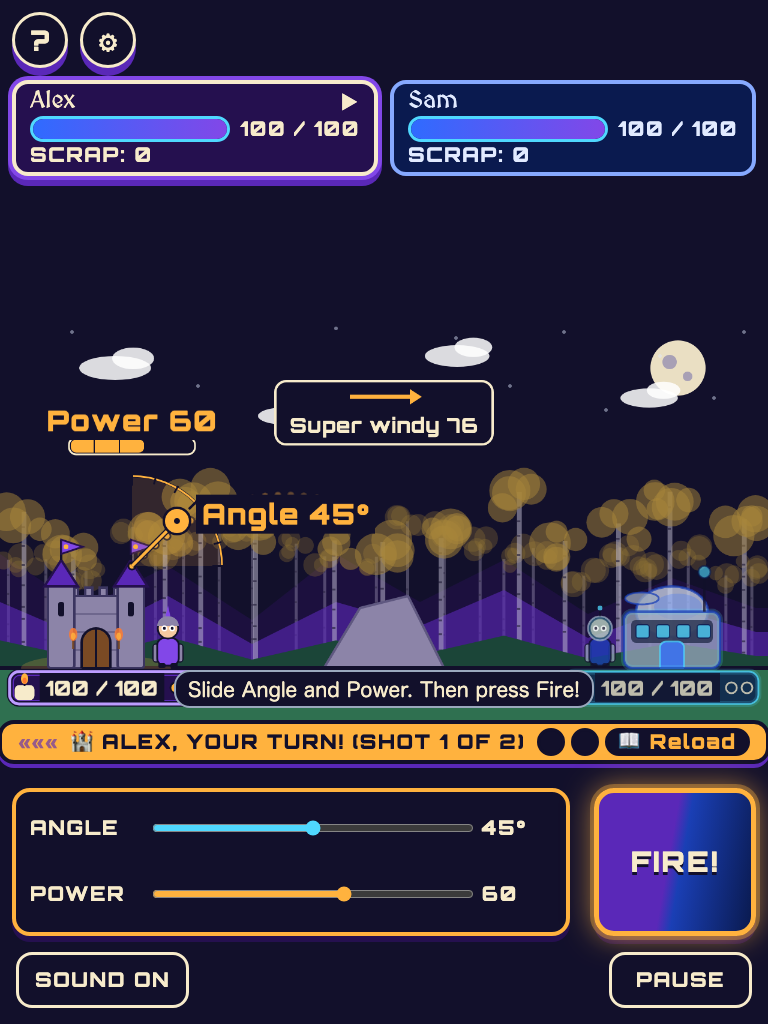
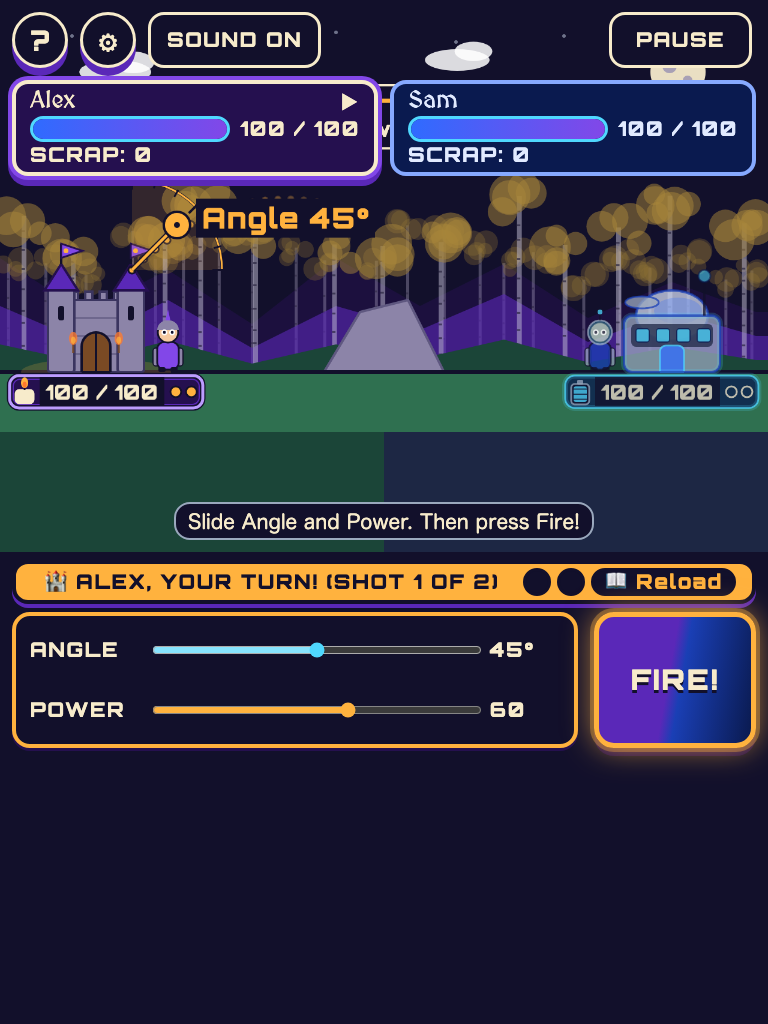
Move the HUD control bar into its own band below the battlefield

diff --git a/src/styles/ui.css b/src/styles/ui.css
@@ -589,6 +589,10 @@ body {
 }
 
 /* ---------- HUD ---------- */
+/* Pause sits top right, just under the team card row (cards end 108px down). */
+:root {
+  --tc-pause-top: 120px;
+}
 .tc-hud {
   position: absolute;
   inset: 0;
@@ -619,7 +623,8 @@ body {
   align-items: stretch;
   justify-content: space-between;
   padding: 12px;
-  padding-left: var(--tc-chrome-clear);
+  /* Wide screens: the cards start to the right of the Sound button, which sits under the ? and gear. */
+  padding-left: calc(var(--tc-tap) * 3 + 40px);
 }
 /* Two shot pips, then a third "Reload" pip: a question comes after shot 2. */
 .tc-pips {
@@ -672,11 +677,12 @@ body {
   height: 100%;
   background: var(--tc-wood);
 }
-/* Sound sits low and left, Pause low and right: one bar of helpers under the picture. */
+/* Sound sits top left, under the ? and gear row. Pause sits top right, under the team card.
+   The band under the picture holds only the controls. */
 .tc-hud-corner {
   position: absolute;
-  left: var(--tc-s-4);
-  bottom: var(--tc-s-4);
+  left: var(--tc-s-3);
+  top: var(--tc-chrome-row);
   display: flex;
   gap: 8px;
 }
@@ -773,32 +779,40 @@ body {
   background: var(--tc-bar-fill);
   transition: width 300ms ease;
 }
-/* The aim controls sit between the two bases (they fill 0 to 20% and 80% to 100% of the width),
-   so a child can see the base they aim from. */
+/* The control bar fills its own band under the picture (the canvas is taller than the
+   battlefield, see BATTLE_BAND). It sits at the bottom of the screen, full width, so the
+   fighters on the ground are never covered. Row 1 is the turn strip. Row 2 is the fighter
+   selector, the aim sliders and Fire. Portrait has more room, so row 2 may wrap. */
 .tc-hud-bottom {
   position: absolute;
-  left: 20%;
-  right: 20%;
-  bottom: 72px;
+  left: 0;
+  right: 0;
+  bottom: 0;
   display: flex;
   flex-wrap: wrap;
-  gap: var(--tc-s-5);
+  gap: var(--tc-s-2) var(--tc-s-4);
   align-items: flex-end;
   justify-content: center;
-  padding: 0 12px;
+  padding: 0 var(--tc-s-3) var(--tc-s-2);
+}
+.tc-hud-bottom > .tc-turn-strip {
+  order: -1;
+  min-width: 0;
+  max-width: 100%;
 }
 .tc-hud-bottom > * {
   pointer-events: auto;
 }
 .tc-aim {
   display: grid;
-  gap: 6px;
+  gap: 0;
   background: var(--tc-ink-deep);
   color: var(--tc-on-dark);
   border: 4px solid var(--tc-ember);
   border-radius: var(--tc-r-card);
-  box-shadow: 0 6px 0 var(--tc-purple-900);
-  padding: 6px 14px 8px;
+  box-shadow: 0 3px 0 var(--tc-purple-900);
+  padding: 4px 14px;
+  flex: 0 1 460px;
   min-width: 340px;
   font-family: var(--tc-font-voice-new);
   font-weight: var(--tc-fw-new);
@@ -825,12 +839,12 @@ body {
 }
 .tc-hint {
   position: absolute;
-  top: 100%;
+  bottom: 100%;
   left: 50%;
   transform: translateX(-50%);
   width: max-content;
   max-width: 100%;
-  margin: 8px 0 0;
+  margin: 0 0 8px;
   padding: 4px 12px;
   font-size: var(--tc-text-min);
   text-align: center;
@@ -2642,22 +2656,31 @@ body {
     min-width: 0;
     max-width: none;
   }
-  /* Portrait: aim panel and Fire share one row in the band below the picture. */
+  /* Portrait: the team cards take the second row, so Sound and Pause ride the first row with the
+     ? and gear. */
+  .tc-hud-corner {
+    left: var(--tc-chrome-clear);
+    top: var(--tc-s-3);
+  }
+  :root {
+    --tc-pause-top: 12px;
+  }
+  /* Portrait: the band is taller, so the controls wrap to two rows. The aim panel and Fire
+     share the second row. */
   .tc-hud-bottom {
-    left: 0;
-    right: 0;
-    bottom: 88px;
+    /* Starts right under the picture (width x 920/1280 tall: battlefield plus band). */
+    top: calc(100vw * 920 / 1280);
+    bottom: auto;
     align-items: stretch;
+    padding-top: var(--tc-s-2);
+    padding-bottom: var(--tc-s-4);
+  }
+  .tc-hud-bottom .tc-turn-chev {
+    display: none;
   }
   .tc-aim {
-    flex: 1;
+    flex: 1 1 360px;
     min-width: 0;
-  }
-  /* The keyboard hint rides above the controls here, clear of Sound and Pause. */
-  .tc-hint {
-    top: auto;
-    bottom: 100%;
-    margin: 0 0 8px;
   }
   .tc-reload-body {
     padding-inline: var(--tc-s-4);

diff --git a/e2e/support/layout.ts b/e2e/support/layout.ts
@@ -1,6 +1,6 @@
 // Layout checks that need a real browser: nothing may sit on top of the team cards.
 import type { Page } from '@playwright/test';
-import { BASES, WORLD } from '../../src/game/config';
+import { BASES, BATTLE_BAND, TERRAIN, WORLD } from '../../src/game/config';
 import { expect } from '../fixtures';
 import { tid } from './game';
 
@@ -8,12 +8,14 @@ type Box = { x: number; y: number; width: number; height: number };
 const overlaps = (a: Box, b: Box): boolean =>
   a.x < b.x + b.width && b.x < a.x + a.width && a.y < b.y + b.height && b.y < a.y + a.height;
 
-/** The ? and gear buttons, and the turn banner, must not cover a team card. */
+/** The ? and gear buttons, Sound and Pause must not cover a team card. */
 export async function expectHudClear(page: Page, where: string): Promise<void> {
   await expect(tid(page, 'how-to-play'), `${where}: exactly one ? button`).toHaveCount(1);
   const chrome = [
     await tid(page, 'how-to-play').boundingBox(),
     await tid(page, 'settings-button').boundingBox(),
+    await tid(page, 'hud-mute').boundingBox(),
+    await tid(page, 'pause').boundingBox(),
   ];
   const cards = [
     await tid(page, 'base-hp-PAST').locator('xpath=ancestor::*[@data-team][1]').boundingBox(),
@@ -53,7 +55,11 @@ export async function recordBannerBox(page: Page): Promise<void> {
   });
 }
 
-/** The aim panel must not sit on top of either base, so a child can see what they aim from. */
+/**
+ * The control bar sits in the band under the picture, so it must clear the whole battlefield:
+ * both bases, and the ground line the fighters stand on. The canvas has one uniform scale
+ * (width / WORLD.width) and is taller than the world by BATTLE_BAND.
+ */
 export async function expectAimPanelClearOfBases(page: Page, where: string): Promise<void> {
   const canvas = await page.locator('#game canvas').boundingBox();
   const panel = await tid(page, 'aim-angle')
@@ -62,6 +68,16 @@ export async function expectAimPanelClearOfBases(page: Page, where: string): Pro
   expect(canvas, `${where}: canvas`).not.toBeNull();
   expect(panel, `${where}: aim panel`).not.toBeNull();
   const k = canvas!.width / WORLD.width;
+  expect(canvas!.height / k, `${where}: canvas is world plus band`).toBeCloseTo(
+    WORLD.height + BATTLE_BAND,
+    0,
+  );
+  const bar = await page.locator('.tc-hud-bottom').boundingBox();
+  expect(bar, `${where}: control bar`).not.toBeNull();
+  expect(
+    bar!.y + 0.5,
+    `${where}: control bar starts below the fighters' ground line`,
+  ).toBeGreaterThanOrEqual(canvas!.y + TERRAIN.groundY * k);
   for (const team of ['PAST', 'FUTURE'] as const) {
     const b = BASES[team];
     const box = { x: canvas!.x + b.x * k, y: canvas!.y + b.y * k, width: b.w * k, height: b.h * k };

diff --git a/tests/ui/styles.test.ts b/tests/ui/styles.test.ts
@@ -2,7 +2,7 @@
 // CSS variables, so these read the CSS text itself.
 import { readFileSync } from 'node:fs';
 import { describe, expect, it } from 'vitest';
-import { UI } from '../../src/game/config';
+import { BATTLE_BAND, UI } from '../../src/game/config';
 import { COVER_BG_FALLBACK } from '../../src/ui/constants';
 import { contrastRatio, parseCssVars, resolveCssVars } from '../../src/ui/contrast';
 
@@ -191,8 +191,25 @@ describe('ui.css: room for the corner buttons', () => {
   it('defines how much room the ? and gear row needs', () => {
     expect(vars['--tc-chrome-clear']).toBeDefined();
   });
-  it('the HUD top row keeps its first card clear of the corner buttons', () => {
-    expect(body('.tc-hud-top')).toMatch(/padding-left:\s*var\(--tc-chrome-clear\)/);
+  it('the HUD top row keeps its first card clear of the ? and gear and the Sound button', () => {
+    expect(body('.tc-hud-top')).toMatch(/padding-left:\s*calc\(var\(--tc-tap\) \* 3/);
+  });
+  it('the control bar lives in its own band at the bottom, full width', () => {
+    const bar = body('.tc-hud-bottom');
+    expect(bar).toMatch(/left:\s*0/);
+    expect(bar).toMatch(/right:\s*0/);
+    expect(bar).toMatch(/bottom:\s*0/);
+    expect(bar).not.toMatch(/bottom:\s*\d+px/);
+  });
+  it('Sound and Pause sit at the top, so the band holds only the controls', () => {
+    expect(body('.tc-hud-corner')).toMatch(/top:\s*var\(--tc-chrome-row\)/);
+    expect(ui).toMatch(/--tc-pause-top:\s*120px/);
+  });
+  it('the canvas band is 200 world px, and the speech bubble uses one uniform scale', () => {
+    expect(BATTLE_BAND).toBe(200);
+    const src = readFileSync(new URL('../../src/ui/transient.ts', import.meta.url), 'utf8');
+    expect(src).toMatch(/box\.width \/ WORLD\.width/);
+    expect(src).not.toMatch(/WORLD\.height\) \* box\.height/);
   });
   it('full screens keep their content below the corner buttons', () => {
     expect(body('.tc-screen')).toMatch(/padding:\s*var\(--tc-chrome-row\)/);

diff --git a/src/ui/transient.ts b/src/ui/transient.ts
@@ -37,8 +37,10 @@ export function showSpeechBubble(
           width: view?.innerWidth || WORLD.width,
           height: view?.innerHeight || WORLD.height,
         };
-  const x = Math.round((box.left + (options.anchor.x / WORLD.width) * box.width) * 100) / 100;
-  const y = Math.round((box.top + (options.anchor.y / WORLD.height) * box.height) * 100) / 100;
+  // One scale for both axes: the canvas is taller than the world (the control band).
+  const k = box.width / WORLD.width;
+  const x = Math.round((box.left + options.anchor.x * k) * 100) / 100;
+  const y = Math.round((box.top + options.anchor.y * k) * 100) / 100;
   const el = h(doc, 'div', {
     class: 'tc-bubble',
     'data-testid': TEST_IDS.speechBubble,
@@ -51,7 +53,7 @@ export function showSpeechBubble(
   el.style.top = `${y}px`;
   if (options.tailTarget) {
     // How far the speaker is from the bubble center, in screen pixels. CSS slides the tail by it.
-    const dx = ((options.tailTarget.x - options.anchor.x) / WORLD.width) * box.width;
+    const dx = (options.tailTarget.x - options.anchor.x) * k;
     el.style.setProperty('--tc-tail-shift', `${Math.round(dx * 100) / 100}px`);
   }
   ctx.layer.bubble.append(el);

diff --git a/src/scenes/battle/backdrop.ts b/src/scenes/battle/backdrop.ts
@@ -4,6 +4,7 @@
 import Phaser from 'phaser';
 import type { BattleLayout, Polygon } from '../../game/types';
 import { aspenLayers, type AspenLayer } from './aspens';
+import { BATTLE_BAND } from '../../game/config';
 import { ART, PALETTE } from './visual';
 
 const CLOUDS = [
@@ -98,6 +99,11 @@ export function drawBackdrop(scene: Phaser.Scene, layout: BattleLayout): Backdro
   g.fillRect(0, horizon, width / 2, height - horizon);
   g.fillGradientStyle(ART.soilTop, ART.soilTop, ART.hullDark, ART.hullDark, 1);
   g.fillRect(width / 2, horizon, width / 2, height - horizon);
+  // The band under the battlefield holds the controls. It carries on as ground, never black.
+  g.fillStyle(ART.grassLow, 1);
+  g.fillRect(0, height, width / 2, BATTLE_BAND);
+  g.fillStyle(ART.hullDark, 1);
+  g.fillRect(width / 2, height, width / 2, BATTLE_BAND);
   for (const o of layout.terrain.obstacles) {
     g.fillStyle(ART.stone, 1);
     g.fillPoints(toPoints(o), true);

diff --git a/src/main.ts b/src/main.ts
@@ -3,7 +3,7 @@
 import Phaser from 'phaser';
 import './styles/fonts.css';
 import './styles/index.css';
-import { WORLD } from './game/config';
+import { BATTLE_BAND, WORLD } from './game/config';
 import { PALETTE } from './scenes/palette';
 import { SERVICES_KEY } from './scenes/registry';
 import { SCENES } from './scenes';
@@ -19,9 +19,10 @@ const game = new Phaser.Game({
   banner: false,
   parent: 'game',
   width: WORLD.width,
-  height: WORLD.height,
+  // The picture is the battlefield plus a band below it for the control bar.
+  height: WORLD.height + BATTLE_BAND,
   backgroundColor: PALETTE.night,
-  scale: { mode: Phaser.Scale.FIT, autoCenter: Phaser.Scale.CENTER_BOTH },
+  scale: { mode: Phaser.Scale.FIT, autoCenter: Phaser.Scale.CENTER_HORIZONTALLY },
   // All sound goes through our AudioManager, which waits for the first tap.
   // Phaser's own audio would open an audio context at boot.
   audio: { noAudio: true },

diff --git a/tests/ui/handoffReview.test.ts b/tests/ui/handoffReview.test.ts
@@ -127,9 +127,10 @@ describe('HUD readouts', () => {
   it('has no separate shots panel: the bar header holds the turn name and the pips', () => {
     expect(css).not.toContain('.tc-hud-center');
   });
-  it('Sound sits low and left, like Pause low and right, and uses the shared button font', () => {
+  it('Sound sits top left under the ? and gear, and uses the shared button font', () => {
     const corner = bodyOf('.tc-hud-corner');
-    expect(corner).toMatch(/bottom:/);
+    expect(corner).toMatch(/top:/);
+    expect(corner).not.toMatch(/bottom:/);
     expect(corner).toMatch(/left:/);
     expect(bodyOf('.tc-hud-corner .tc-btn')).not.toMatch(/font-family/);
   });

diff --git a/src/game/config.ts b/src/game/config.ts
@@ -108,6 +108,12 @@ export const RNG_SALT = {
 // ---------- Layout (logical world, scaled to fit by Phaser) ----------
 export const WORLD = { width: 1280, height: 720 } as const;
 
+/**
+ * Extra canvas height below the battlefield, in world px. The HUD control bar lives in this band,
+ * so the fighters on the ground are never covered. Physics and layout still use WORLD alone.
+ */
+export const BATTLE_BAND = 200;
+
 const GROUND_Y = 620;
 
 const GROUND: Polygon = [

diff --git a/e2e/portrait.spec.ts b/e2e/portrait.spec.ts
@@ -46,7 +46,7 @@ test('portrait: setup, battle, pass screen and reload all fit', async ({ page, b
   await expectBannerClear(page, 'portrait banner');
   await fits(
     page,
-    ['fire', 'aim-angle', 'aim-power', 'wind', 'base-hp-PAST', 'base-hp-FUTURE'],
+    ['fire', 'aim-angle', 'aim-power', 'wind', 'base-hp-PAST', 'base-hp-FUTURE', 'hud-mute', 'pause'],
     'Battle',
   );
   expect(await smallTargets(page), 'targets in Battle').toEqual([]);

diff --git a/src/scenes/battle/pauseUi.ts b/src/scenes/battle/pauseUi.ts
@@ -33,7 +33,8 @@ export function createPauseControl(doc: Document, handlers: PauseHandlers): Paus
   const bs = button.style;
   bs.position = 'fixed';
   bs.right = '16px';
-  bs.bottom = '16px';
+  // Top right, under the team card, so the band under the picture holds only the controls.
+  bs.top = 'var(--tc-pause-top)';
   bs.zIndex = String(PAUSE_Z);
   bs.minHeight = `${UI.tapTargetMinPx}px`;
   bs.minWidth = `${UI.tapTargetMinPx}px`;

diff --git a/docs/DESIGN_SYSTEM.md b/docs/DESIGN_SYSTEM.md
@@ -72,6 +72,10 @@ All interactive parts are at least 56px tall and wide (`--tc-tap`).
 
 **Focus ring.** `outline: var(--tc-focus-width) solid var(--tc-focus-on-light)` on light surfaces and `var(--tc-focus-on-dark)` on dark ones, with `outline-offset: var(--tc-focus-offset)`. Never remove it. One ring color cannot reach 3:1 on both parchment and ink, so there are two.
 
+## Battle layout
+
+The Phaser canvas is the 1280x720 battlefield plus a control band below it (`BATTLE_BAND`, 200 world px), so it is 1280x920 and scaled to fit, top-aligned and centered across. Physics and layout still use the 1280x720 world. The HUD control bar sits at the bottom of the screen, full width, inside that band: the turn strip on row 1, then the fighter selector, the Angle and Power sliders and Fire on row 2 (portrait wraps to more rows). The backdrop paints the band as ground (grass left, soil right). Sound sits top left under the ? and gear. Pause sits top right under the team card. The speech bubble maps world to screen with one scale (canvas width / world width) on both axes.
+
 ## Contrast
 
 Computed from the token values by `tests/styles/designPairs.ts` (WCAG 2.1 relative luminance). Ratios are rounded down. Body text needs 4.5:1. Large UI (buttons, borders, focus rings, fills) needs 3:1. The test fails if this table drifts from the tokens.

diff --git a/BACKLOG.md b/BACKLOG.md
@@ -17,7 +17,6 @@ Phase 1 is built (see docs/BUILD.md and docs/CONTRACTS.md). The look and feel ph
 - Miss, near-miss, and wrong-answer lines are plain. Chrono has no label or quip on the reload card. "My dignity needs a rematch" shows even when it does not fit.
 
 ## P2
-- The aim panel still sits over the ground strip at 1024x768. Moving the controls below the picture means a new canvas layout.
 - Tumble bubble: a squash, spin or block-bounce animation for the speaker (the tail now points at them).
 - Reload card: an optional "hide the bonus ring" setting for slow readers.
 - Victory awards: the winner can still hold five awards. Consider a cap if it stings.
